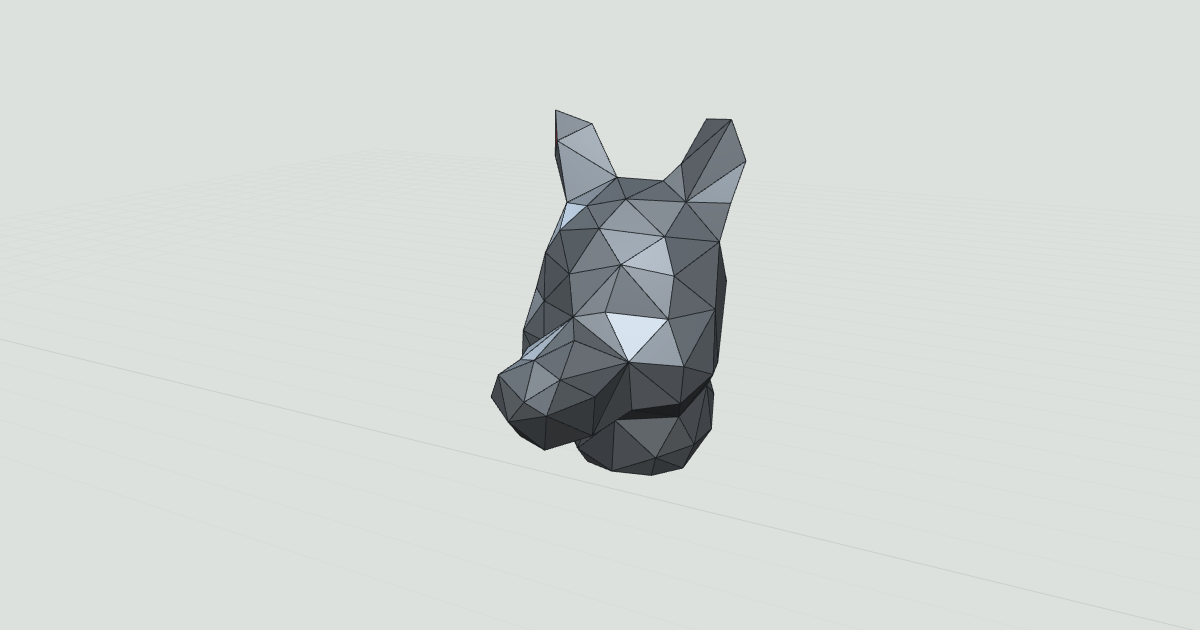
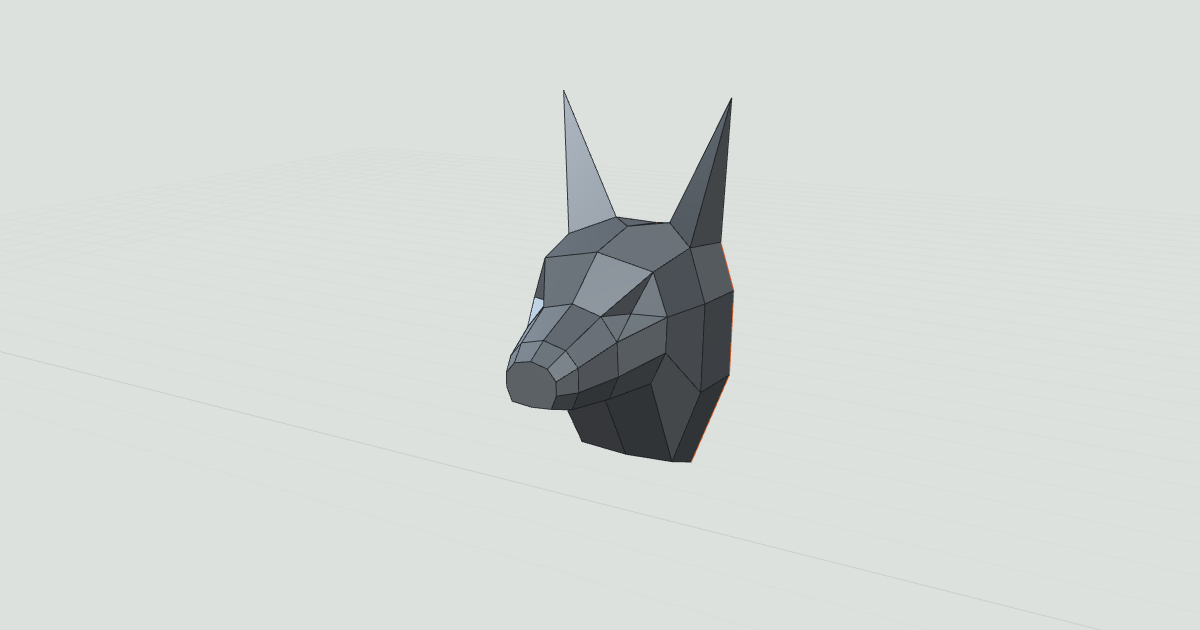
Искусство v0.1.1: доберман — гранёная модель руками, 65 плоских деталей

Changed region(s): [[0.4008, 0.1508, 0.6475, 0.754]]

diff --git a/art/js/mesh.js b/art/js/mesh.js
@@ -120,12 +120,12 @@ function fitMesh(m,dims){const b=meshBox(m.V),s=[dims.W/(b.size[0]||1),dims.H/(b
 
 /* ---------- детали: соседние треугольники в одной плоскости ---------- */
 const DENS={steel:7850,inox:7900,corten:7850,alu:2700};
-function buildParts(m,tolDeg=.5){const {V,F}=m,N=F.map(f=>V3.norm(triN(V,f))),cos=Math.cos(tolDeg*Math.PI/180);
+function buildParts(m,tolDeg=.5,tolMm=.3){const {V,F}=m,N=F.map(f=>V3.norm(triN(V,f))),cos=Math.cos(tolDeg*Math.PI/180);
   const E=new Map(),ek=(a,b)=>a<b?a+'_'+b:b+'_'+a;F.forEach((f,fi)=>{for(let k=0;k<3;k++){const key=ek(f[k],f[(k+1)%3]);(E.get(key)||E.set(key,[]).get(key)).push(fi);}});
   const part=new Int32Array(F.length).fill(-1),groups=[];
   F.forEach((f,s)=>{if(part[s]>=0)return;const g=[s],pl=V3.dot(N[s],V[f[0]]);part[s]=groups.length;
     for(let q=0;q<g.length;q++){const fi=g[q],ff=F[fi];for(let k=0;k<3;k++)(E.get(ek(ff[k],ff[(k+1)%3]))||[]).forEach(o=>{
-      if(part[o]>=0)return;if(V3.dot(N[o],N[s])<cos)return;if(F[o].some(i=>Math.abs(V3.dot(N[s],V[i])-pl)>.3))return;part[o]=groups.length;g.push(o);});}
+      if(part[o]>=0)return;if(V3.dot(N[o],N[s])<cos)return;if(F[o].some(i=>Math.abs(V3.dot(N[s],V[i])-pl)>tolMm))return;part[o]=groups.length;g.push(o);});}
     groups.push(g);});
   // контур детали: рёбра, которые не делятся с треугольником той же детали
   const parts=groups.map((g,pi)=>{const n=V3.norm(g.reduce((s,fi)=>V3.add(s,triN(V,F[fi])),[0,0,0]));let area=0;g.forEach(fi=>area+=V3.len(triN(V,F[fi]))/2);
@@ -198,3 +198,22 @@ function fixSlivers(m,thr,maxIt=400){let V=m.V.map(p=>p.slice()),F=m.F.map(f=>f.
       if(ok){V[a]=mid;F=F.filter(g=>!(g.includes(a)&&g.includes(b))).map(g=>g.map(i=>i===b?a:i));done=true;}}
     if(!done)skip.add(f.join());}
   return cleanMesh({V,F});}
+
+/* ---------- ручная гранёная модель: многоугольники → в плоскость → треугольники ----------
+   polys — грани-многоугольники; fix(i,p) — держит точку на своём месте (середина x=0, стена z=0…) */
+function planarize(V,polys,fix,it=400){V=V.map(p=>p.slice());
+  for(let k=0;k<it;k++){const acc=V.map(()=>[0,0,0]),cnt=V.map(()=>0);
+    polys.forEach(P=>{if(P.length<4)return;const c=V3.mul(P.reduce((s,i)=>V3.add(s,V[i]),[0,0,0]),1/P.length);let n=[0,0,0];
+      P.forEach((i,j)=>{const a=V[i],b=V[P[(j+1)%P.length]];n[0]+=(a[1]-b[1])*(a[2]+b[2]);n[1]+=(a[2]-b[2])*(a[0]+b[0]);n[2]+=(a[0]-b[0])*(a[1]+b[1]);});n=V3.norm(n);
+      P.forEach(i=>{const d=V3.dot(V3.sub(V[i],c),n);acc[i]=V3.add(acc[i],V3.sub(V[i],V3.mul(n,d)));cnt[i]++;});});
+    V=V.map((p,i)=>{const q=cnt[i]?V3.mul(acc[i],1/cnt[i]):p;return fix?fix(i,q):q;});}
+  return V;}
+// грани наружу: соседние грани — согласованно, а в целом — от центра фигуры
+function orientPolys(V,polys,center){const ek=(a,b)=>a<b?a+'_'+b:b+'_'+a,E=new Map();polys.forEach((P,pi)=>P.forEach((a,j)=>{const k=ek(a,P[(j+1)%P.length]);(E.get(k)||E.set(k,[]).get(k)).push(pi);}));
+  const done=new Set(),out=polys.map(P=>P.slice());
+  polys.forEach((_,s)=>{if(done.has(s))return;const q=[s],comp=[s];done.add(s);
+    while(q.length){const pi=q.shift(),P=out[pi];P.forEach((a,j)=>{const b=P[(j+1)%P.length];(E.get(ek(a,b))||[]).forEach(o=>{if(done.has(o))return;const Q=out[o],k=Q.indexOf(a);if(Q[(k+1)%Q.length]===b)Q.reverse();done.add(o);q.push(o);comp.push(o);});});}
+    let vote=0;comp.forEach(pi=>{const P=out[pi],c=V3.mul(P.reduce((s,i)=>V3.add(s,V[i]),[0,0,0]),1/P.length),n=V3.cross(V3.sub(V[P[1]],V[P[0]]),V3.sub(V[P[2]],V[P[0]]));vote+=Math.sign(V3.dot(n,V3.sub(c,center)));});
+    if(vote<0)comp.forEach(pi=>out[pi].reverse());});
+  return out;}
+function polyMesh(V,polys){const F=[];polys.forEach(P=>{for(let k=1;k+1<P.length;k++)F.push([P[0],P[k],P[k+1]]);});return {V,F};}

diff --git a/art/js/figures.js b/art/js/figures.js
@@ -36,5 +36,38 @@ const FIGURES={
     box:[[-460,-20,-150],[460,720,360]]}};
 
 // построить фигуру: формула → плотная сетка → открытая спина
-function figureMesh(id,cell=12){const f=FIGURES[id];const sd=p=>Math.max(f.sdf(p),f.back-p[2],-p[1]);   // срез стеной сзади и снизу
+function figureMesh(id,cell=12){const f=FIGURES[id];if(f.poly)return f.build();const sd=p=>Math.max(f.sdf(p),f.back-p[2],-p[1]);   // срез стеной сзади и снизу
   let m=sdfMesh(sd,f.box[0],f.box[1],cell);m=openCut(m,2,f.back,-1,cell*.8);return m;}
+
+/* ---------- Доберман: модель руками, как у мастеров — крупные плоские грани ----------
+   Голова и шея — 6 сечений от стены (z=0) к носу; между соседними — четырёхугольные грани.
+   Уши — острые пирамиды, глаза — впадина. Точки задаём справа (x ≥ 0), левая половина — зеркало. */
+function buildDoberman(){
+  const R=[[0,[[0,0],[80,15],[135,190],[138,335],[118,415],[0,435]]],
+    [110,[[0,60],[85,60],[130,195],[135,340],[110,428],[0,450]]],
+    [210,[[0,232],[85,238],[118,285],[122,345],[88,410],[0,428]]],
+    [290,[[0,228],[60,234],[76,270],[74,322],[50,358],[0,372]]],
+    [370,[[0,238],[48,242],[56,272],[52,308],[34,328],[0,338]]],
+    [405,[[0,250],[34,254],[40,276],[38,296],[26,312],[0,318]]]];
+  const V=[],fixd=[],mir=[];const add=(p,f)=>{V.push(p);fixd.push(f||{});return V.length-1;};
+  // вершина справа и её зеркало (на середине — одна)
+  const pt=(p,f)=>{const i=add(p,Object.assign({mid:p[0]===0},f));mir[i]=p[0]===0?i:add([-p[0],p[1],p[2]],f);if(p[0]!==0)mir[mir[i]]=i;return i;};
+  const ring=R.map(([z,ps],ri)=>ps.map(([x,y])=>pt([x,y,z],ri===0?{wall:1}:ri===R.length-1?{cap:z}:{})));
+  const P=[];const quad=(i,j)=>[ring[i][j],ring[i][j+1],ring[i+1][j+1],ring[i+1][j]];
+  for(let i=0;i<R.length-1;i++)for(let j=0;j<5;j++){
+    if(i===0&&j===4){ // макушка у стены — тут стоит ухо
+      const A=ring[0][4],B=ring[0][5],C=ring[1][5],D=ring[1][4],G=pt([48,450,55]),T=pt([145,650,55]);
+      P.push([G,A,B],[G,B,C],[G,C,D],[D,G,T],[A,D,T],[G,A,T]);continue;}
+    if(i===2&&j===3){ // глаз — впадина посреди грани
+      const q=quad(i,j),c=V3.mul(q.reduce((s,k)=>V3.add(s,V[k]),[0,0,0]),.25),n=V3.norm(V3.cross(V3.sub(V[q[2]],V[q[0]]),V3.sub(V[q[3]],V[q[1]])));
+      const E=pt(V3.add(c,V3.mul(n,V3.dot(n,V3.sub(c,[0,300,120]))>0?-18:18)));q.forEach((k,m)=>P.push([k,q[(m+1)%4],E]));continue;}
+    P.push(quad(i,j));}
+  const cap=ring[R.length-1];P.push([...cap,...cap.slice(1,5).reverse().map(k=>mir[k])]);
+  // левая половина
+  const all=P.concat(P.filter(Q=>!(Q.length>4)).map(Q=>Q.map(k=>mir[k]).reverse()).filter(Q=>Q.some((k,m)=>k!==P[0][m])));
+  // убираем повторы (грани на середине у зеркала совпадают с исходными)
+  const seen=new Set(),polys=[];all.forEach(Q=>{const k=[...Q].sort((a,b)=>a-b).join();if(seen.has(k))return;seen.add(k);polys.push(Q);});
+  const fix=(i,q)=>{const f=fixd[i];if(f.mid)q[0]=0;if(f.wall)q[2]=0;if(f.cap!==undefined)q[2]=f.cap;return q;};
+  const or=orientPolys(V,polys,[0,300,120]);
+  return polyMesh(planarize(V,or,fix),or);}
+FIGURES.doberman={name:'Доберман (на стену)',H:620,poly:true,build:buildDoberman};

diff --git a/art/index.html b/art/index.html
@@ -13,7 +13,7 @@
 <link rel="preconnect" href="https://fonts.googleapis.com">
 <link rel="preconnect" href="https://fonts.gstatic.com" crossorigin>
 <link rel="stylesheet" href="https://fonts.googleapis.com/css2?family=Oswald:wght@500;600;700&family=Golos+Text:wght@400;500;600&family=JetBrains+Mono:wght@400;500&display=swap">
-<link rel="stylesheet" href="css/style.css?v=0.1.0">
+<link rel="stylesheet" href="css/style.css?v=0.1.1">
 </head>
 <body>
 <div class="wrap">
@@ -29,7 +29,7 @@
   <section>
     <div class="pick">
       <label><span class="t">Название</span><input id="mName" class="inp" value=""></label>
-      <label><span class="t">Фигура</span><select id="figSel"><option value="" hidden>— своя модель —</option><option value="dog">Голова собаки (на стену)</option><option value="bull">Голова быка (на стену)</option></select></label>
+      <label><span class="t">Фигура</span><select id="figSel"><option value="" hidden>— своя модель —</option><option value="doberman">Доберман (на стену)</option><option value="dog">Голова собаки — гладкая (на стену)</option><option value="bull">Голова быка (на стену)</option></select></label>
       <div class="btns"><button id="bOpen" type="button">Открыть модель</button><button id="bSave" type="button">Сохранить</button></div>
       <input type="file" id="fileIn" accept=".obj,.stl,.glb,.json" hidden>
       <span class="pickhint" id="msg"></span>
@@ -95,7 +95,7 @@
   </section>
 
   <footer>
-    <span class="ver">v0.1.0</span>
+    <span class="ver">v0.1.1</span>
     <span>email: <a href="mailto:vashaklach@gmail.com">vashaklach@gmail.com</a></span>
   </footer>
 </div>
@@ -103,9 +103,9 @@
 <script src="https://cdnjs.cloudflare.com/ajax/libs/three.js/r128/three.min.js"></script>
 <script src="https://cdn.jsdelivr.net/npm/three@0.128.0/examples/js/controls/OrbitControls.js"></script>
 <script src="https://cdn.jsdelivr.net/npm/three@0.128.0/examples/js/renderers/CSS2DRenderer.js"></script>
-<script src="js/mesh.js?v=0.1.0"></script>
-<script src="js/figures.js?v=0.1.0"></script>
-<script src="js/view3d.js?v=0.1.0"></script>
-<script src="js/ui.js?v=0.1.0"></script>
+<script src="js/mesh.js?v=0.1.1"></script>
+<script src="js/figures.js?v=0.1.1"></script>
+<script src="js/view3d.js?v=0.1.1"></script>
+<script src="js/ui.js?v=0.1.1"></script>
 </body>
 </html>

diff --git a/art/tools/smoke.js b/art/tools/smoke.js
@@ -17,4 +17,8 @@ for(const id of ['dog','bull']){const t0=Date.now();run(`D=figureMesh('${id}')`)
   // манифолд: каждое внутреннее ребро — ровно 2 грани
   ok(run(`(()=>{const m=new Map();S.F.forEach(f=>{for(let k=0;k<3;k++){const a=f[k],b=f[(k+1)%3],key=a<b?a+'_'+b:b+'_'+a;m.set(key,(m.get(key)||0)+1);}});return [...m.values()].every(n=>n<=2);})()`),id+': сетка без «лишних» рёбер');}
 run(`B0=meshBox(F.V).size;FX=fitMesh(fixSlivers(F,30),{W:B0[0],H:B0[1],D:B0[2]});RX=buildParts(FX)`);console.log("     узких после чистки: "+run(`RX.parts.filter(p=>p.minW<29.5).length`)+", деталей "+run(`RX.parts.length`));ok(run('RX.parts.filter(p=>p.minW<29.5).length')<=5&&Math.abs(run('meshBox(FX.V).size[1]')-620)<1e-6,"бык после чистки иголок: узких ≤5, высота ровно 620");
+run(`DB=figureMesh("doberman");FD=fitMesh(DB,(b=>({W:b.size[0]*620/b.size[1],H:620,D:b.size[2]*620/b.size[1]}))(meshBox(DB.V)));RD=buildParts(FD,1.5,1.5);TD=totals(RD,{t:2,mat:"steel",sheet:[2500,1250]})`);
+console.log("     доберман: треугольников "+run("DB.F.length")+", деталей "+run("RD.parts.length")+", четырёхугольников "+run("RD.parts.filter(p=>p.loop.length===4).length")+", габарит "+run("meshBox(FD.V).size.map(Math.round).join('×')")+", масса "+run("TD.mass").toFixed(1)+" кг, швы "+(run("TD.weld")/1000).toFixed(1)+" м");
+ok(run("RD.parts.length")>=55&&run("RD.parts.length")<=100&&run("RD.parts.filter(p=>p.loop.length===4).length")>30,"доберман: 55–100 деталей, грани — плоские четырёхугольники");
+run(`FD2=fitMesh(DB,{W:400,H:700,D:300});RD2=buildParts(FD2,1.5,1.5)`);ok(run("RD2.parts.length")===run("RD.parts.length"),"доберман растянут 400×700×300 — деталей столько же, грани остались плоскими");
 console.log(bad?'ОШИБОК: '+bad:'всё ок');process.exit(bad?1:0);

diff --git a/art/js/ui.js b/art/js/ui.js
@@ -21,8 +21,9 @@ function later(fn,t){loading(true,t||'Считаю…');setTimeout(()=>{try{fn()
 function compute(){const b=ST.base;let S=b;
   if(isDense()&&ST.faces<b.F.length){const key=b.F.length+':'+b.V.length+':'+ST.faces+':'+b.V[0];if(SIMP.key!==key){SIMP={key,m:simplify(b,ST.faces)};}S=SIMP.m;}
   else if(!isDense()&&ST.faces<b.F.length){const key='low:'+b.F.length+':'+ST.faces+':'+b.V[0];if(SIMP.key!==key){SIMP={key,m:simplify(b,ST.faces)};}S=SIMP.m;}
-  let M3=fitMesh(S,ST.dims);if(ST.minW>0)M3=fitMesh(fixSlivers(M3,ST.minW),ST.dims);   // после чистки — снова точно в размер
-  const R=buildParts(M3),T=totals(R,{t:ST.t,mat:ST.mat,sheet:sheetWL()});
+  const asIs=!isDense()&&ST.faces>=b.F.length;   // гранёная как есть: грани уже плоские, не трогаем
+  let M3=fitMesh(S,ST.dims);if(ST.minW>0&&!asIs)M3=fitMesh(fixSlivers(M3,ST.minW),ST.dims);   // после чистки — снова точно в размер
+  const R=asIs?buildParts(M3,1.5,1.5):buildParts(M3),T=totals(R,{t:ST.t,mat:ST.mat,sheet:sheetWL()});
   const small=new Set(R.parts.filter(p=>p.minW<ST.minW-.5).map(p=>p.id));
   CUR={M3,R,T,small};if(ST.sel>=R.parts.length)ST.sel=-1;}
 
@@ -131,4 +132,4 @@ document.querySelectorAll('.controls .grp').forEach(g=>g.querySelector('.gt').ad
 if(/og/.test(location.hash)){document.body.classList.add('og');ST.nums=false;ST.small=false;$('cNums').checked=false;}
 metalUI();
 if(typeof THREE==='undefined'){loading(true,'Не загрузилась 3D-библиотека — проверьте интернет');}
-else{const hf=/f=([a-z]+)/.exec(location.hash),f=hf&&FIGURES[hf[1]]?hf[1]:FIGURES[store('art-fig')]?store('art-fig'):'dog';$('figSel').value=f;loadFigure(f);}
+else{const hf=/f=([a-z]+)/.exec(location.hash),f=hf&&FIGURES[hf[1]]?hf[1]:FIGURES[store('art-fig')]?store('art-fig'):'doberman';$('figSel').value=f;loadFigure(f);}

diff --git a/index.html b/index.html
@@ -58,8 +58,8 @@ footer a{color:var(--accent)}
       <div class="b"><h2>Каркасы из профтрубы</h2><p>Навесы, стеллажи, столы, рамы: нарисуйте по осям или откройте пример — длины реза со скосами, спецификация, раскрой хлыстов.</p><span class="go">Открыть →</span></div>
     </a>
     <a class="card" href="art/index.html">
-      <img src="art/og.png" alt="Гранёная голова собаки из листового металла" width="1200" height="630">
-      <div class="b"><h2>Искусство — фигуры из листа</h2><p>Гранёные фигуры из плоских деталей листа: голова собаки, бык или своя модель OBJ, STL, GLB. Растягивайте — детали, масса, рез и швы пересчитываются.</p><span class="go">Открыть →</span></div>
+      <img src="art/og.png" alt="Гранёная голова добермана из листового металла" width="1200" height="630">
+      <div class="b"><h2>Искусство — фигуры из листа</h2><p>Гранёные фигуры из плоских деталей листа: доберман, бык или своя модель OBJ, STL, GLB. Растягивайте — детали, масса, рез и швы пересчитываются.</p><span class="go">Открыть →</span></div>
     </a>
   </main>
   <footer>

diff --git a/CHANGELOG.md b/CHANGELOG.md
@@ -1,5 +1,11 @@
 # История версий
 
+## Искусство v0.1.1 — 2026-10-20 (не опубликовано)
+
+- Доберман на стену — фигура по умолчанию, собран руками по точкам, как у мастеров: 65 крупных плоских деталей (почти все — четырёхугольники), высокие уши, морда клином, впалые глаза, шея клином книзу.
+- Гранёная модель берётся как есть: грани не перекраиваются, при растяжении остаются плоскими.
+- Прежняя голова собаки осталась как пример гладкой модели — на ней видно, как работает ползунок граней.
+
 ## Искусство v0.1.0 — 2026-10-20
 
 - Новый раздел `art/` и карточка на главной: гранёные фигуры из плоских деталей листа.
